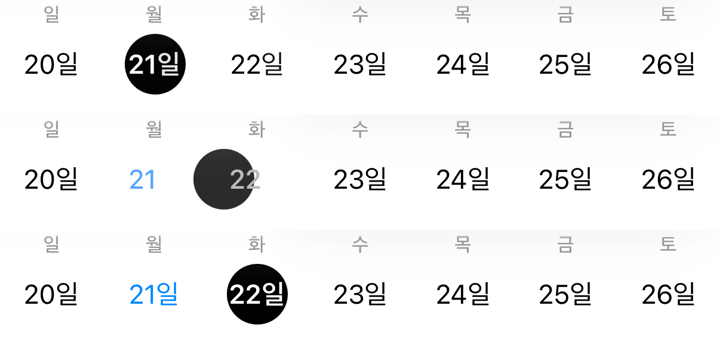
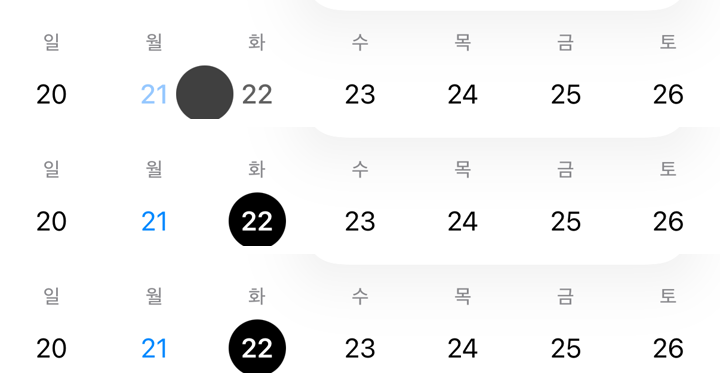
improve: blog — 날짜 바 캡처를 현재 UI 로 갈고 공용 칸 이야기를 더한다
주↔월 morph 가 먼저 머지되면서 날짜 바 모양이 바뀌었다. 옛 UI 캡처를 새로 찍은
프레임으로 갈고, 선택 원이 주간·월 공용 칸에 있어 네임스페이스를 쓰는 쪽이 준다는
문장을 더한다. ko/en 둘 다.

Claude-Session: https://claude.ai/code/session_011cDsE85VT6fTBCY7V1isvt

diff --git a/src/content/blog/en/2026-09-21-planner-now-line-layering.md b/src/content/blog/en/2026-09-21-planner-now-line-layering.md
@@ -60,9 +60,9 @@ The day you're looking at is marked by a black circle behind its cell in the dat
 
 The code said exactly that: per cell, "if selected, draw a circle." Changing the day deletes one circle and creates another. SwiftUI has a way to say those two are the same thing — `matchedGeometryEffect`. Give the disappearing and appearing views the same id and it interpolates the frames between them.
 
-![Three frames of the circle crossing from the 21st to the 22nd; in the middle frame it sits between the two dates](/blog/planner-now-line-layering/datebar-selection-slide.png)
+![Three frames of the circle crossing from the 21st to the 22nd; in the first it sits between the two dates](/blog/planner-now-line-layering/datebar-selection-slide.png)
 
-What's left is where the namespace lives. The week strip is a horizontal pager where **one week is one page**. A single namespace for the whole strip means that crossing a week boundary sends the circle flying to coordinates on a page that is offscreen, or not even rendered yet. So one week is its own view with its own namespace: within a week the circle slides, and across weeks it is quietly replaced while the page turns. Not stacking two animations on top of each other reads better.
+The circle lives in a cell the week strip and the month grid share, so the namespace is passed in by whoever wants the move: pass one and it slides, pass none and it appears and disappears as before — the month grid collapses the bar on tap anyway, so it kept the old behavior. What's left is where the namespace lives. The week strip is a horizontal pager where **one week is one page**. A single namespace for the whole strip means that crossing a week boundary sends the circle flying to coordinates on a page that is offscreen, or not even rendered yet. So one week is its own view with its own namespace: within a week the circle slides, and across weeks it is quietly replaced while the page turns. Not stacking two animations on top of each other reads better.
 
 ## History
 
